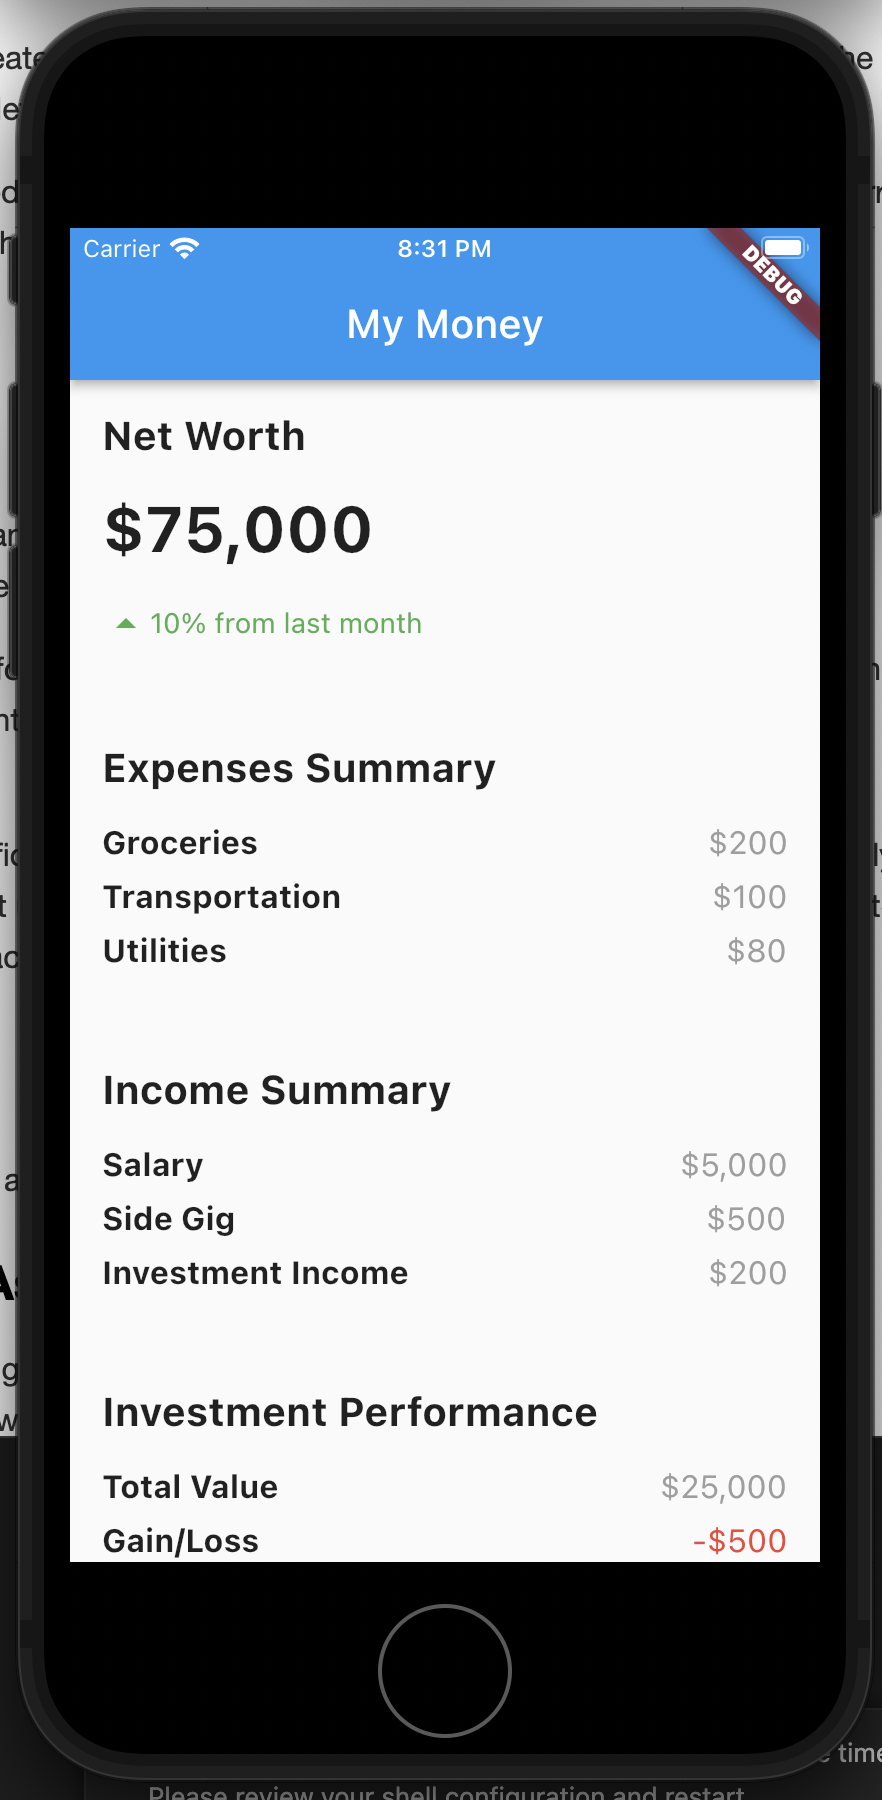
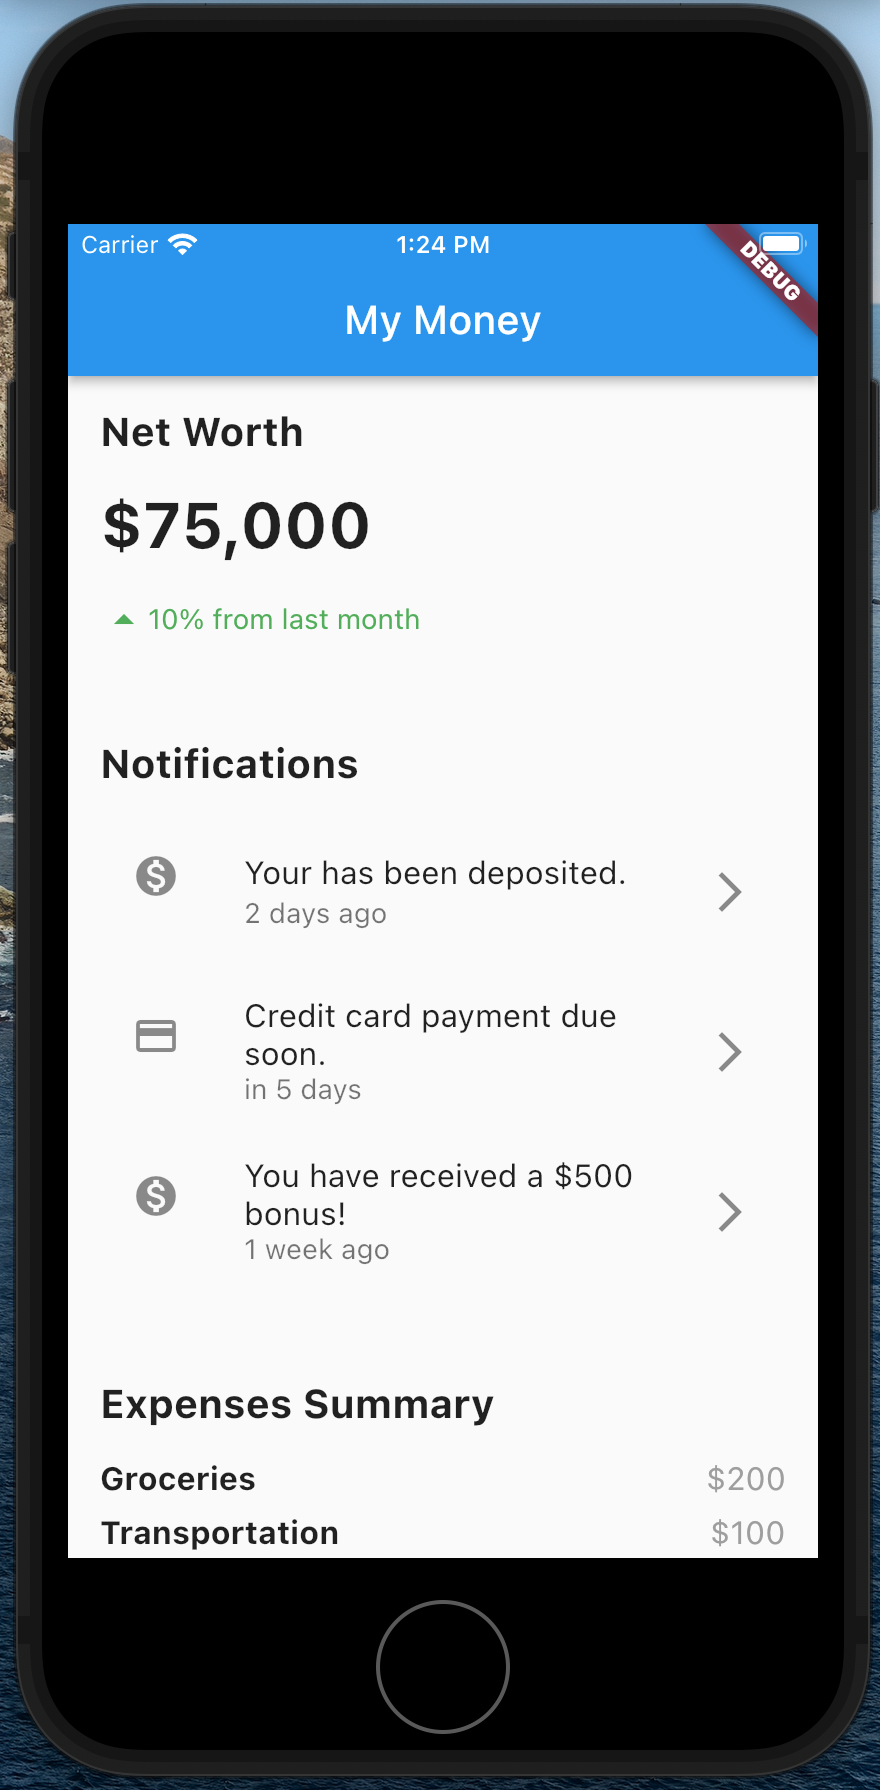
Proof read README.

diff --git a/README.md b/README.md
@@ -1,5 +1,7 @@
 # digital_banking
 
+## ChatGPT Reimagines Digital Banking With Flutter App
+
 I was in a meeting where we were tasked with reimagining digital banking when I remarked flippantly that we should ask ChatGPT to do it. The facetious remark was taken for what it was, but a voice in the back of my head said, 'Hey...'
 
 ## The Experiment
@@ -709,15 +711,15 @@ This design includes three ListTile widgets, each displaying a different notific
 
 I chose Flutter because we were also considering a switch to Flutter. However, I don't know Flutter or Dart from a bar of soap, so there was some work to be done.
 
-First I had to learn how to create a Flutter app, and then how to splice the widgets into the `flutter create app` I was left with.
+First I had to learn how to create a Flutter app, and then how to splice the widgets ChatGPT had given to me into the `flutter create app` I was left with.
 
 As can be seen above, I found that when I managed to get ChatGPT to actually write me some code, it would error out if it tried to write too much.
 
 ![alt broken code](removed.png "Broken Code")
 
-I got around this by eliciting an overall structure, before asking for more detail on the relevant widgets. This made the process more laborious, but it was better than giving up. It also meant more effort to splice the code I was given into the app.
+I got around this by eliciting an overall structure, and then asking for more detail on the relevant widgets. This made the process more laborious, but it was better than giving up. It also meant more effort to splice the code I was given into the app.
 
-After adding a few widgets I found that ChatGPT had assumed an infinitely long phone, since it had not factored scrolling into the app. That saw me needing to find out how to add scrolling.
+After adding a few widgets I found that ChatGPT had assumed an infinitely long phone, since it had not factored scrolling into the app. That saw me needing to find out how to add scrolling to a Flutter app.
 
 The completed app had notifications at the bottom of a scroll down the screen, which really didn't make sense. I moved it up the order so that they appear on the screen on app startup, before any scrolling takes place.
 
@@ -736,4 +738,4 @@ On reimagining digital banking: yawn. Which is hardly surprising, given that LLM
 
 I'm a big fan of circumventing hours of meetings around slide decks with code. I prefer to go ahead and build something, anything, I can put on a table that we can stand around and poke a stick at. So this approach speaks to me.
 
-However, once could say it's just a difficult to use Figma. If you work in an enterprise with an army of Figma wielding designers, ChatGPT brings nothing. However, if you're small enough to be going straigt to code, it may be a different story. If you're a startup, maybe you'd slap Firebase on the back of it and call it MVP. Oh no, that voice in the back of my head just said, 'Hey...'
+However, one could argue this approach is just a difficult to use Figma. If you work in an enterprise with an army of Figma wielding designers, prototyping with ChatGPT brings nothing. However, if you're small enough to be going straigt to code, it may be a different story. If you're a startup, maybe you'd slap Firebase on the back of it and call it MVP. Oh no, that voice in the back of my head just said, 'Hey...'
